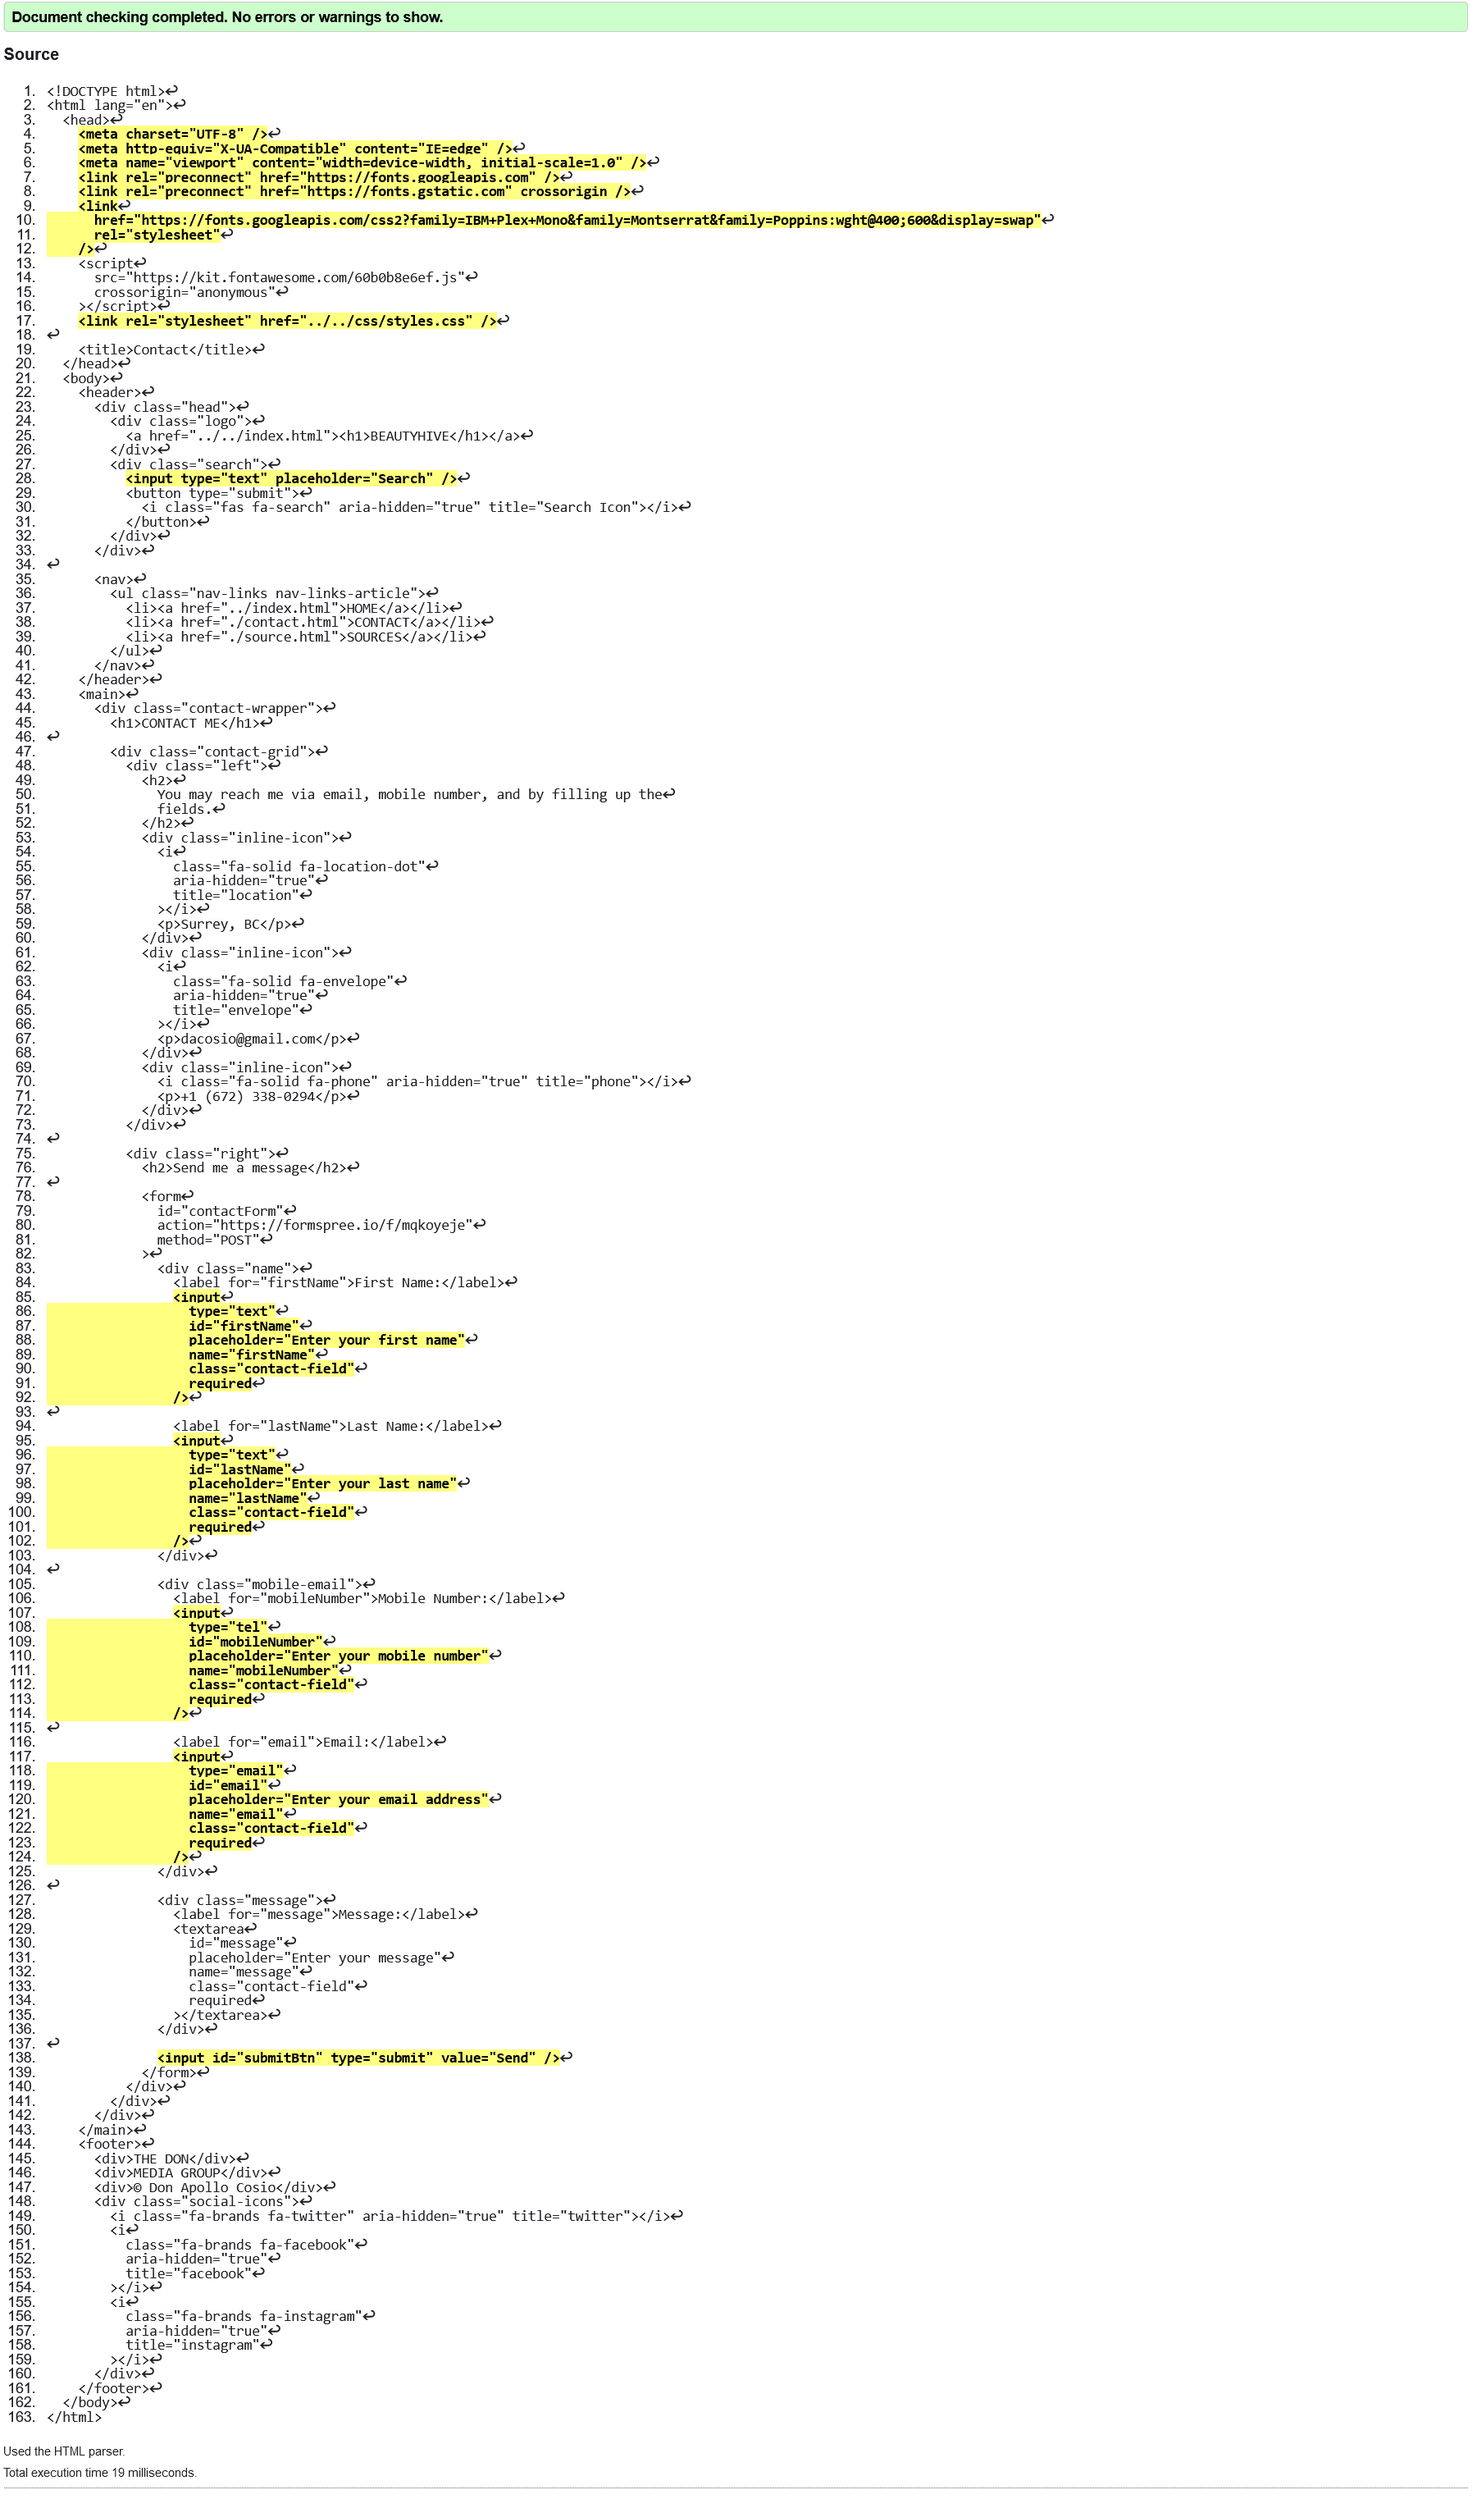
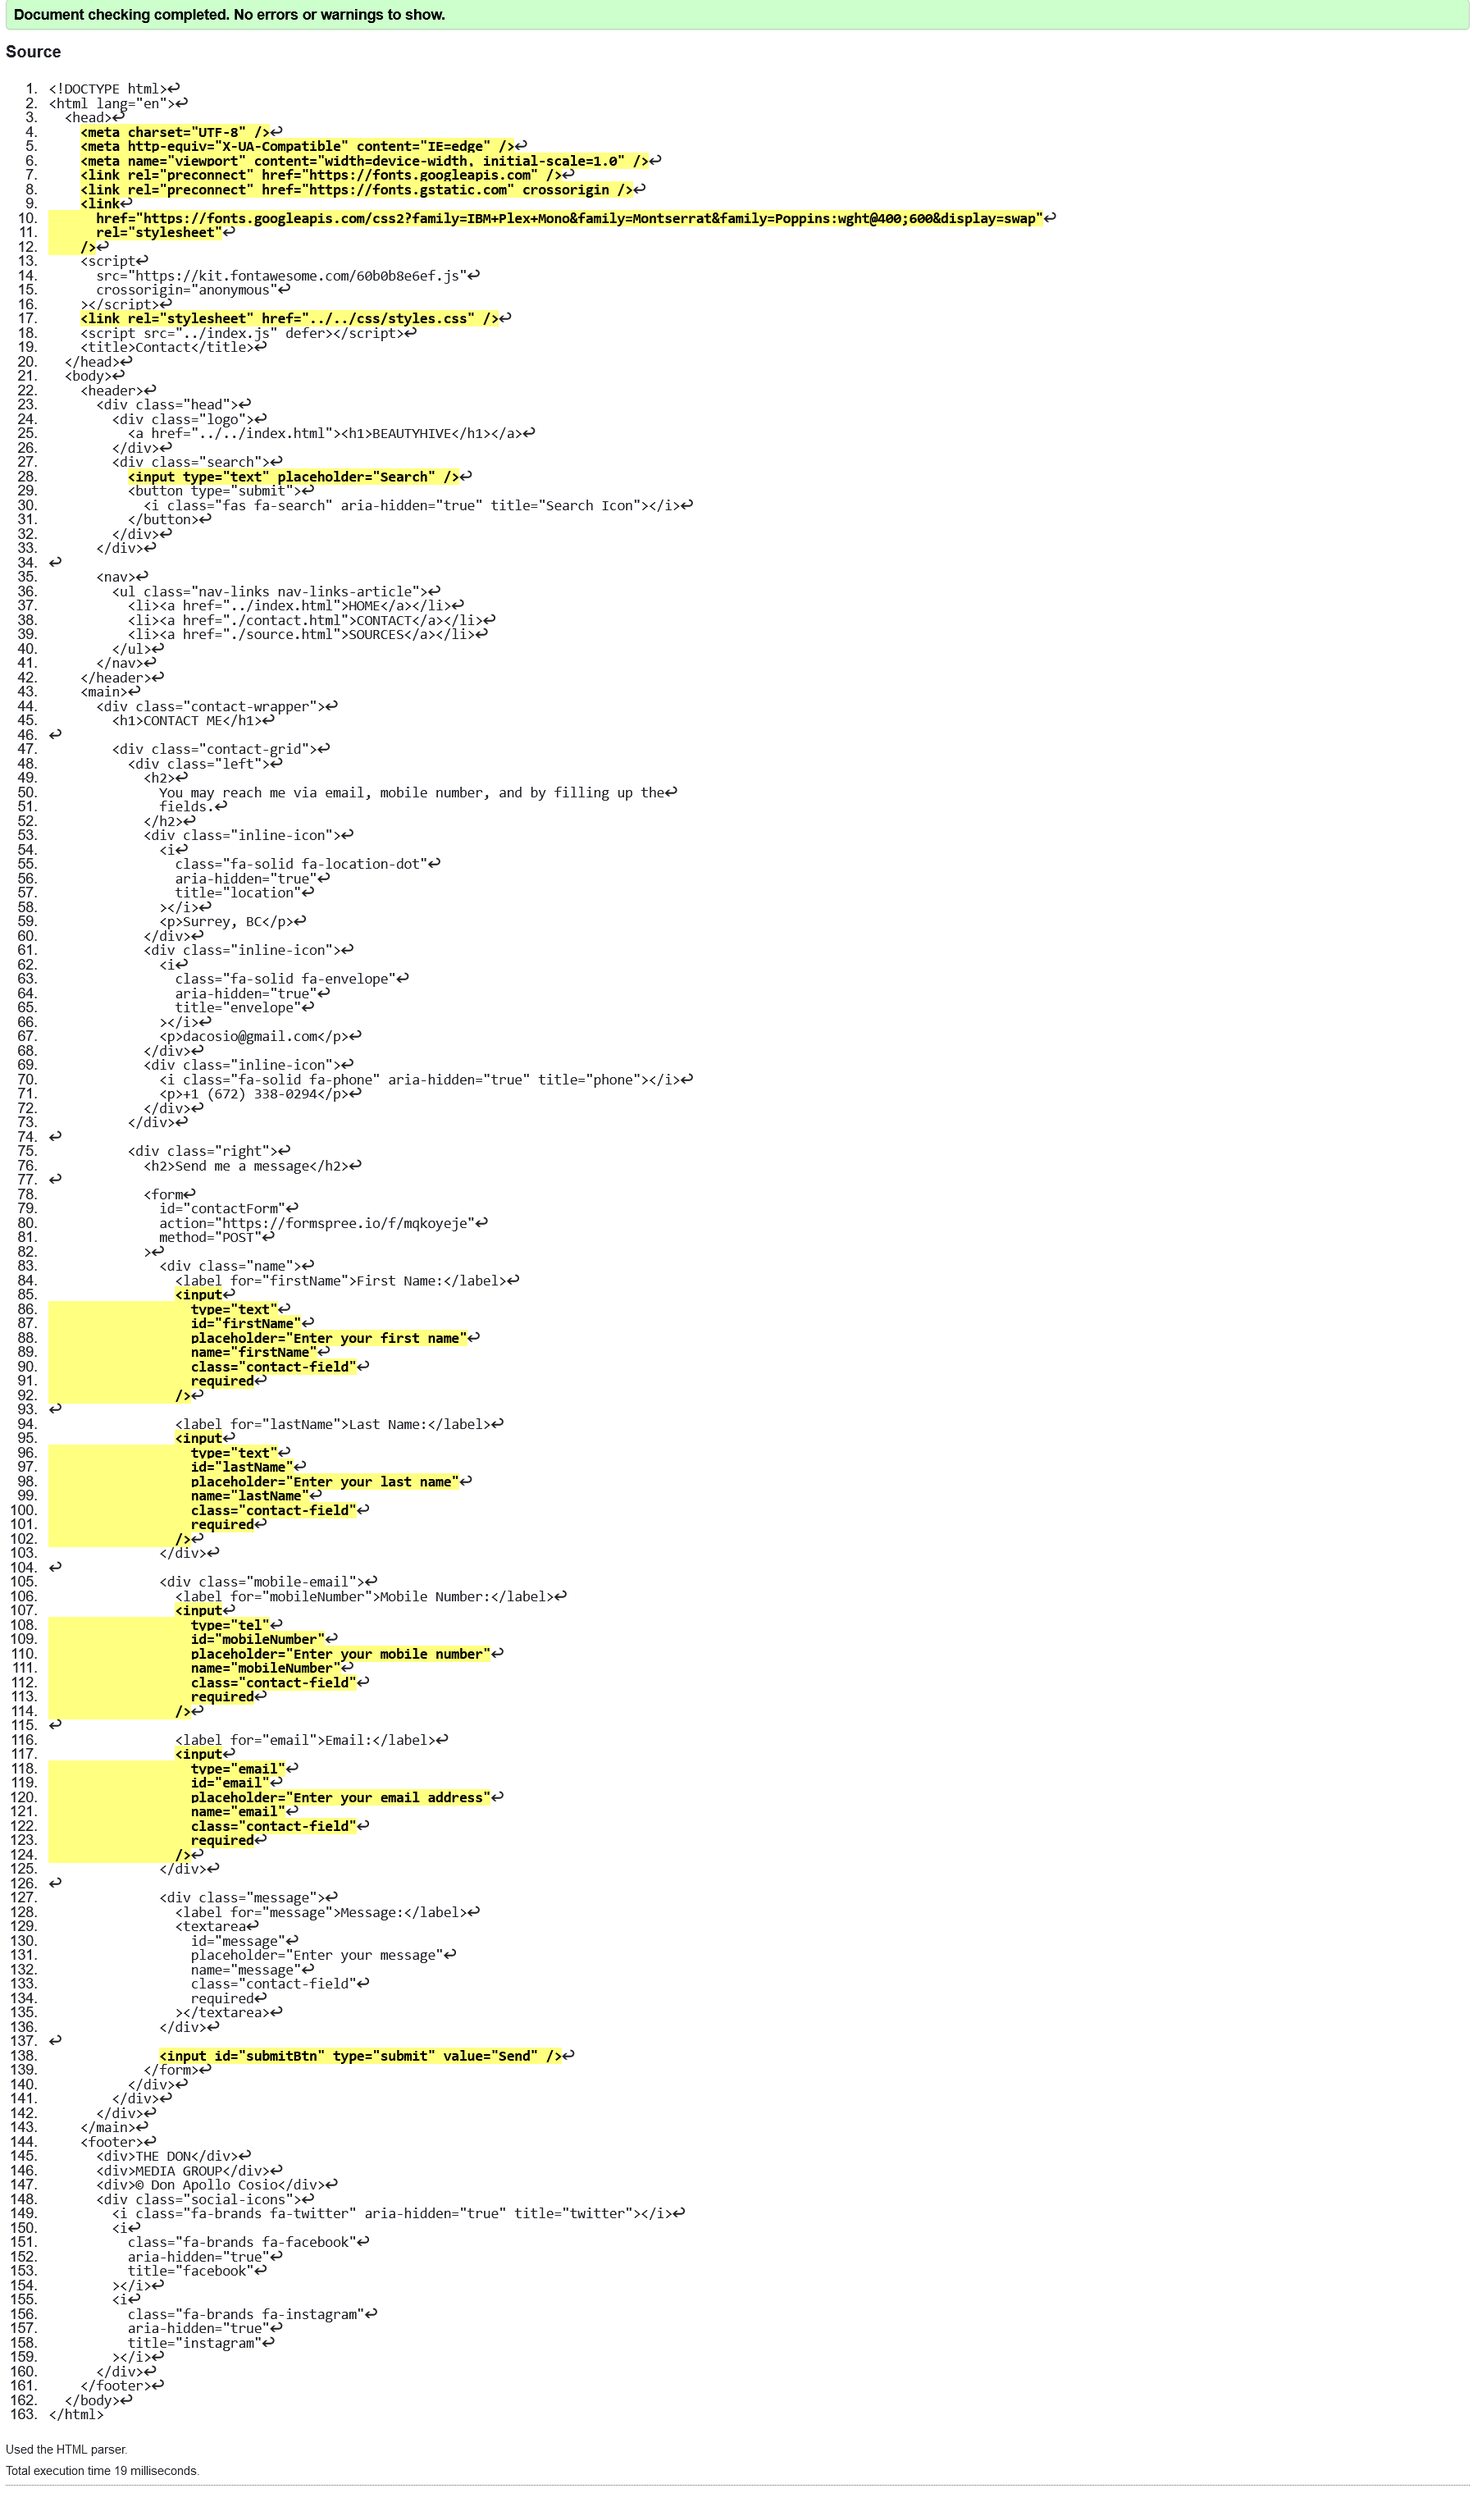
final

Changed region(s): [[0.0, 0.0, 0.7152, 1.0]]

diff --git a/css/styles.css b/css/styles.css
@@ -1,7 +1,3 @@
-/* ============================================= */
-/* ============= Default Code Mobile =========== */
-/* ============================================= */
-
 * {
   margin: 0;
   padding: 0;
@@ -328,8 +324,6 @@ table {
   max-width: 800px;
   overflow-x: auto;
   margin: auto;
-  /* height: 500px; */
-  /* text-align: center; */
 }
 
 thead th:nth-child(1) {
@@ -344,22 +338,13 @@ thead th:nth-child(3) {
   width: 20%;
 }
 
-/* tbody {
-  display: block;
-  height: 100%;
-  overflow-y: scroll;
-} */
-
 th,
 td {
   padding: 0.5em;
   border-bottom: 1px solid #ddd;
   text-align: center;
 }
-/* thead th {
-  font-weight: bold;
-  text-align: center;
-} */
+
 img.thumbnail {
   max-width: 100%;
   height: auto;
@@ -371,12 +356,6 @@ img.thumbnail {
 tr:nth-child(even) {
   background-color: #f8f8f8;
 }
-
-/* tr {
-  display: table;
-  width: 100%;
-  table-layout: fixed;
-} */
 
 td a:hover {
   text-decoration: underline;

diff --git a/index.js b/index.js
@@ -1,0 +1,7 @@
+window.addEventListener("load", (event) => {
+  console.log("page is fully loaded");
+  //   focus on firstName on load
+  firstName.focus();
+  //   this is to reset the form after sending a message via formspree
+  contactForm.reset();
+});

diff --git a/html/contact.html b/html/contact.html
@@ -15,7 +15,7 @@
       crossorigin="anonymous"
     ></script>
     <link rel="stylesheet" href="../../css/styles.css" />
-
+    <script src="../index.js" defer></script>
     <title>Contact</title>
   </head>
   <body>
